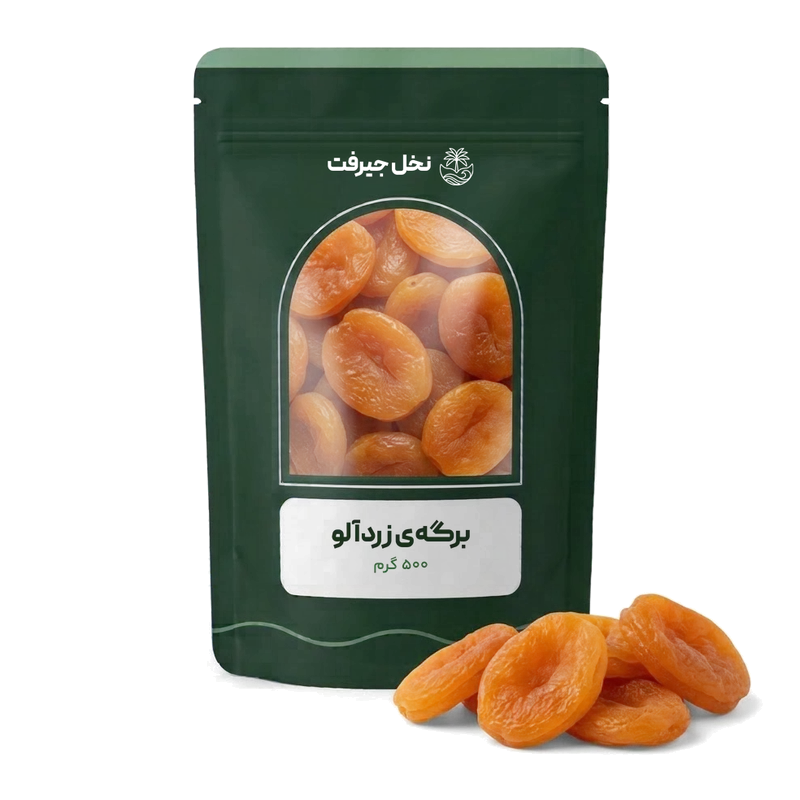
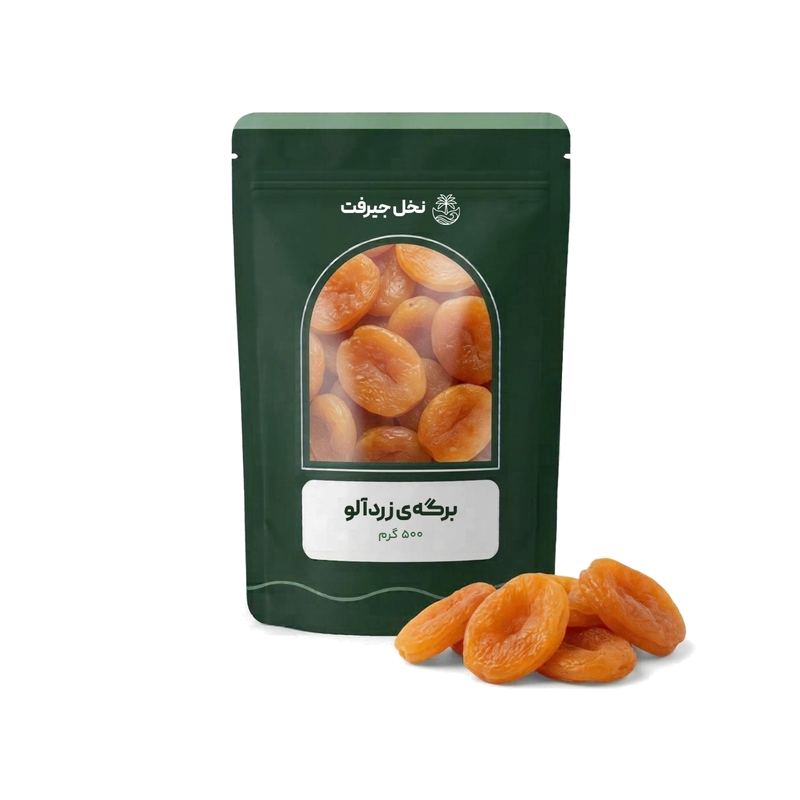
Same visual height for all product photos; cartons larger; less padding in image slot
Claude-Session: https://claude.ai/code/session_01C6711DbN9xjxTLnYgikHbm

diff --git a/index.html b/index.html
@@ -25,8 +25,8 @@
 <link rel="preload" href="fonts/YekanBakhFaNum-Regular.woff2" as="font" type="font/woff2" crossorigin>
 <link rel="preload" href="fonts/PeydaWeb-Black.woff2" as="font" type="font/woff2" crossorigin>
 
-<link rel="stylesheet" href="css/tailwind.css?v=20261027an">
-<link rel="stylesheet" href="css/style.css?v=20261027an">
+<link rel="stylesheet" href="css/tailwind.css?v=20261027ao">
+<link rel="stylesheet" href="css/style.css?v=20261027ao">
 
 
 </head>
@@ -239,7 +239,7 @@
         <!-- IMAGE SLOT · خرمای مضافتی -->
         <div class="relative grid aspect-square place-items-center overflow-hidden rounded-2xl">
           <div class="p-glow pointer-events-none absolute inset-0 rounded-2xl" aria-hidden="true"></div>
-          <div class="p-img relative grid h-full w-full place-items-center" role="img" aria-label="خرمای مضافتی"><img src="img/p/maz-box.webp?v=5" srcset="img/p/maz-box-400.webp?v=5 400w, img/p/maz-box.webp?v=5 800w" sizes="(min-width:1024px) 290px, 46vw" width="800" height="800" alt="خرمای مضافتی" class="ph max-h-full w-auto object-contain p-3" loading="lazy" decoding="async"></div>
+          <div class="p-img relative grid h-full w-full place-items-center" role="img" aria-label="خرمای مضافتی"><img src="img/p/maz-box.webp?v=6" srcset="img/p/maz-box-400.webp?v=6 400w, img/p/maz-box.webp?v=6 800w" sizes="(min-width:1024px) 290px, 46vw" width="800" height="800" alt="خرمای مضافتی" class="ph max-h-full w-auto object-contain p-3" loading="lazy" decoding="async"></div>
         </div>
         
       </div>
@@ -265,7 +265,7 @@
         <!-- IMAGE SLOT · خرمای پیارم -->
         <div class="relative grid aspect-square place-items-center overflow-hidden rounded-2xl">
           <div class="p-glow pointer-events-none absolute inset-0 rounded-2xl" aria-hidden="true"></div>
-          <div class="p-img relative grid h-full w-full place-items-center" role="img" aria-label="خرمای پیارم"><img src="img/p/pia-box.webp?v=5" srcset="img/p/pia-box-400.webp?v=5 400w, img/p/pia-box.webp?v=5 800w" sizes="(min-width:1024px) 290px, 46vw" width="800" height="800" alt="خرمای پیارم" class="ph max-h-full w-auto object-contain p-3" loading="lazy" decoding="async"></div>
+          <div class="p-img relative grid h-full w-full place-items-center" role="img" aria-label="خرمای پیارم"><img src="img/p/pia-box.webp?v=6" srcset="img/p/pia-box-400.webp?v=6 400w, img/p/pia-box.webp?v=6 800w" sizes="(min-width:1024px) 290px, 46vw" width="800" height="800" alt="خرمای پیارم" class="ph max-h-full w-auto object-contain p-3" loading="lazy" decoding="async"></div>
         </div>
         
       </div>
@@ -291,7 +291,7 @@
         <!-- IMAGE SLOT · خرمای کلوته -->
         <div class="relative grid aspect-square place-items-center overflow-hidden rounded-2xl">
           <div class="p-glow pointer-events-none absolute inset-0 rounded-2xl" aria-hidden="true"></div>
-          <div class="p-img relative grid h-full w-full place-items-center" role="img" aria-label="خرمای کلوته"><img src="img/p/kal-box.webp?v=5" srcset="img/p/kal-box-400.webp?v=5 400w, img/p/kal-box.webp?v=5 800w" sizes="(min-width:1024px) 290px, 46vw" width="800" height="800" alt="خرمای کلوته" class="ph max-h-full w-auto object-contain p-3" loading="lazy" decoding="async"></div>
+          <div class="p-img relative grid h-full w-full place-items-center" role="img" aria-label="خرمای کلوته"><img src="img/p/kal-box.webp?v=6" srcset="img/p/kal-box-400.webp?v=6 400w, img/p/kal-box.webp?v=6 800w" sizes="(min-width:1024px) 290px, 46vw" width="800" height="800" alt="خرمای کلوته" class="ph max-h-full w-auto object-contain p-3" loading="lazy" decoding="async"></div>
         </div>
         
       </div>
@@ -317,7 +317,7 @@
         <!-- IMAGE SLOT · پستهی اکبری -->
         <div class="relative grid aspect-square place-items-center overflow-hidden rounded-2xl">
           <div class="p-glow pointer-events-none absolute inset-0 rounded-2xl" aria-hidden="true"></div>
-          <div class="p-img relative grid h-full w-full place-items-center" role="img" aria-label="پستهی اکبری"><img src="img/p/pis.webp?v=5" srcset="img/p/pis-400.webp?v=5 400w, img/p/pis.webp?v=5 800w" sizes="(min-width:1024px) 290px, 46vw" width="800" height="800" alt="پستهی اکبری" class="ph max-h-full w-auto object-contain p-3" loading="lazy" decoding="async"></div>
+          <div class="p-img relative grid h-full w-full place-items-center" role="img" aria-label="پستهی اکبری"><img src="img/p/pis.webp?v=6" srcset="img/p/pis-400.webp?v=6 400w, img/p/pis.webp?v=6 800w" sizes="(min-width:1024px) 290px, 46vw" width="800" height="800" alt="پستهی اکبری" class="ph max-h-full w-auto object-contain p-3" loading="lazy" decoding="async"></div>
         </div>
         
       </div>
@@ -343,7 +343,7 @@
         <!-- IMAGE SLOT · انجیر خشک استهبان -->
         <div class="relative grid aspect-square place-items-center overflow-hidden rounded-2xl">
           <div class="p-glow pointer-events-none absolute inset-0 rounded-2xl" aria-hidden="true"></div>
-          <div class="p-img relative grid h-full w-full place-items-center" role="img" aria-label="انجیر خشک استهبان"><img src="img/p/fig.webp?v=5" srcset="img/p/fig-400.webp?v=5 400w, img/p/fig.webp?v=5 800w" sizes="(min-width:1024px) 290px, 46vw" width="800" height="800" alt="انجیر خشک استهبان" class="ph max-h-full w-auto object-contain p-3" loading="lazy" decoding="async"></div>
+          <div class="p-img relative grid h-full w-full place-items-center" role="img" aria-label="انجیر خشک استهبان"><img src="img/p/fig.webp?v=6" srcset="img/p/fig-400.webp?v=6 400w, img/p/fig.webp?v=6 800w" sizes="(min-width:1024px) 290px, 46vw" width="800" height="800" alt="انجیر خشک استهبان" class="ph max-h-full w-auto object-contain p-3" loading="lazy" decoding="async"></div>
         </div>
         
       </div>
@@ -369,7 +369,7 @@
         <!-- IMAGE SLOT · بادام درختی -->
         <div class="relative grid aspect-square place-items-center overflow-hidden rounded-2xl">
           <div class="p-glow pointer-events-none absolute inset-0 rounded-2xl" aria-hidden="true"></div>
-          <div class="p-img relative grid h-full w-full place-items-center" role="img" aria-label="بادام درختی"><img src="img/p/alm.webp?v=5" srcset="img/p/alm-400.webp?v=5 400w, img/p/alm.webp?v=5 800w" sizes="(min-width:1024px) 290px, 46vw" width="800" height="800" alt="بادام درختی" class="ph max-h-full w-auto object-contain p-3" loading="lazy" decoding="async"></div>
+          <div class="p-img relative grid h-full w-full place-items-center" role="img" aria-label="بادام درختی"><img src="img/p/alm.webp?v=6" srcset="img/p/alm-400.webp?v=6 400w, img/p/alm.webp?v=6 800w" sizes="(min-width:1024px) 290px, 46vw" width="800" height="800" alt="بادام درختی" class="ph max-h-full w-auto object-contain p-3" loading="lazy" decoding="async"></div>
         </div>
         
       </div>
@@ -395,7 +395,7 @@
         <!-- IMAGE SLOT · مغز گردو -->
         <div class="relative grid aspect-square place-items-center overflow-hidden rounded-2xl">
           <div class="p-glow pointer-events-none absolute inset-0 rounded-2xl" aria-hidden="true"></div>
-          <div class="p-img relative grid h-full w-full place-items-center" role="img" aria-label="مغز گردو"><img src="img/p/wal.webp?v=5" srcset="img/p/wal-400.webp?v=5 400w, img/p/wal.webp?v=5 800w" sizes="(min-width:1024px) 290px, 46vw" width="800" height="800" alt="مغز گردو" class="ph max-h-full w-auto object-contain p-3" loading="lazy" decoding="async"></div>
+          <div class="p-img relative grid h-full w-full place-items-center" role="img" aria-label="مغز گردو"><img src="img/p/wal.webp?v=6" srcset="img/p/wal-400.webp?v=6 400w, img/p/wal.webp?v=6 800w" sizes="(min-width:1024px) 290px, 46vw" width="800" height="800" alt="مغز گردو" class="ph max-h-full w-auto object-contain p-3" loading="lazy" decoding="async"></div>
         </div>
         
       </div>
@@ -421,7 +421,7 @@
         <!-- IMAGE SLOT · برگهی زردآلو -->
         <div class="relative grid aspect-square place-items-center overflow-hidden rounded-2xl">
           <div class="p-glow pointer-events-none absolute inset-0 rounded-2xl" aria-hidden="true"></div>
-          <div class="p-img relative grid h-full w-full place-items-center" role="img" aria-label="برگهی زردآلو"><img src="img/p/apr.webp?v=5" srcset="img/p/apr-400.webp?v=5 400w, img/p/apr.webp?v=5 800w" sizes="(min-width:1024px) 290px, 46vw" width="800" height="800" alt="برگهی زردآلو" class="ph max-h-full w-auto object-contain p-3" loading="lazy" decoding="async"></div>
+          <div class="p-img relative grid h-full w-full place-items-center" role="img" aria-label="برگهی زردآلو"><img src="img/p/apr.webp?v=6" srcset="img/p/apr-400.webp?v=6 400w, img/p/apr.webp?v=6 800w" sizes="(min-width:1024px) 290px, 46vw" width="800" height="800" alt="برگهی زردآلو" class="ph max-h-full w-auto object-contain p-3" loading="lazy" decoding="async"></div>
         </div>
         
       </div>
@@ -1192,6 +1192,6 @@
 <!-- Toast (top, so it never collides with the cart capsule) -->
 <div id="toast" role="status" aria-live="polite" class="pointer-events-none fixed left-1/2 top-24 z-[90] w-max max-w-[calc(100vw-2rem)] -translate-x-1/2 -translate-y-2 rounded-full bg-cyprus-deep px-5 py-3 text-center text-sm text-white opacity-0 shadow-lg transition duration-200"></div>
 
-<script src="js/app.js?v=20261027an"></script>
+<script src="js/app.js?v=20261027ao"></script>
 </body>
 </html>

diff --git a/js/app.js b/js/app.js
@@ -24,7 +24,7 @@
     { id:'apr',   cat:'dried', img:'img/p/apr.webp',    name:'برگهی زردآلو',           unit:'بستهبندی ۵۰۰ گرمی',   price:380000,  badge:'۱۰۰٪ ارگانیک', tag:'زردآلو', featured:true },
     { id:'rai',   cat:'dried', img:'img/p/rai.webp',    name:'کشمش سبز',                unit:'بستهبندی ۵۰۰ گرمی',   price:210000,  badge:'صادراتی',     tag:'کشمش' }
   ];
-  const IMG_V = '5';                // bump when product photos change, so phones don't keep old cached copies
+  const IMG_V = '6';                // bump when product photos change, so phones don't keep old cached copies
   products.forEach(p => { if (p.img) p.img += '?v=' + IMG_V; });
   const byId = Object.fromEntries(products.map(p => [p.id, p]));
   /* weight in kg (for the customer's "purchased weight") + sample stock; the admin panel overrides price/stock */

diff --git a/css/style.css b/css/style.css
@@ -677,3 +677,4 @@ img.ph{mix-blend-mode:multiply;filter:none!important;background:none}
 .p-card .unit-pill{max-width:100%;overflow:hidden;text-overflow:ellipsis;white-space:nowrap}
 .p-card h3{white-space:nowrap;overflow:hidden;text-overflow:ellipsis}
 .cat-search[hidden],#storage[hidden],#grid[hidden]{display:none!important}
+.p-card .p-img img.ph{padding:2px}
